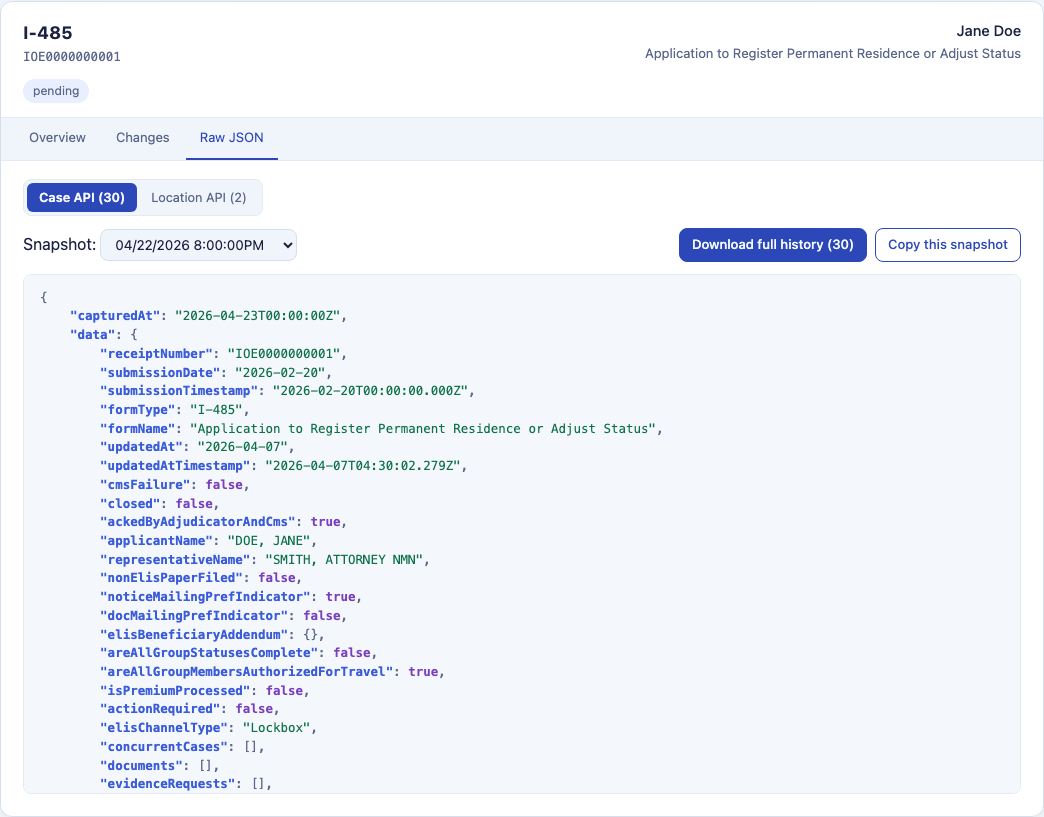
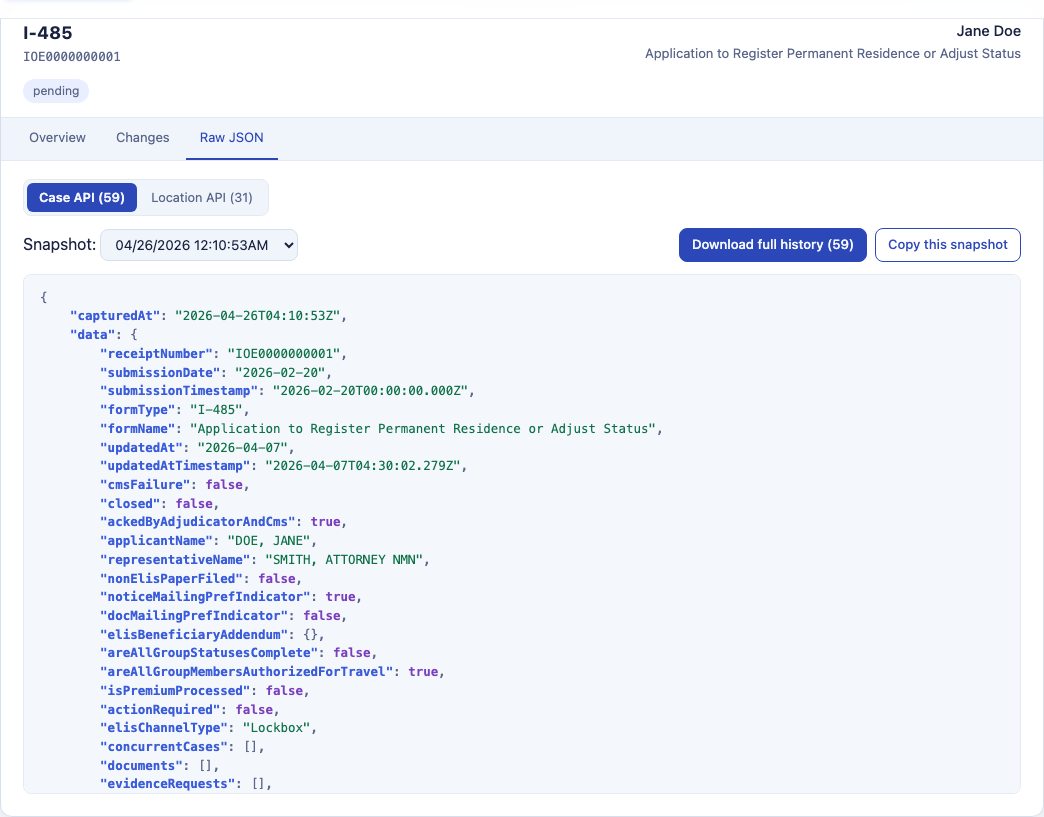
chore: drop dead code; refresh screenshots; document instance collision
Cleanup
- pyflakes + vulture sweep, no behaviour changes (516 tests still
  passing).
- server.py: drop unused imports `diff_utils.day_of` and
  `system_log.count as count_system_log`; drop unused locals
  `attempt_started_wall`, `tail_lines`, and `stdout` inside the
  pull-attempt loop.
- uscis_auth.py: drop unused `import os`.
- session_fetch.py: drop unused playwright re-exports
  `Error as PlaywrightError` and `TimeoutError as PlaywrightTimeout`
  (kept `sync_playwright`).
- access_gate.py: drop unused flask imports `abort`,
  `send_from_directory`, `url_for`.
- style.css: remove four `.syslog-head-row` rule blocks — the class
  isn't emitted anywhere (leftover from a prior layout).

Docs
- README: warning callout at the top of the Deployment section.
  Multiple instances against the same auth.uscis_email must not
  fire a scheduled pull at the same time — the OIDC + MFA flow
  races, the IMAP inbox is shared, and lockouts get tripped.
  Running several servers side-by-side (VM + local copies) is
  fine for testing as long as schedules don't overlap; either
  stop the others before the next fire, or stagger pull_minute
  values per instance. Manual /api/pull triggers can interleave
  freely — only schedulers must not collide.
- README screenshots regenerated against the current UI (topbar
  refactor + new System tab + collapse states). Same three crops
  and dimensions as before; PII masked at render time via DOM
[…]

diff --git a/src/static/style.css b/src/static/style.css
@@ -1290,8 +1290,6 @@ main[hidden] { display: none; }
 }
 .clear-log-btn:hover { background: var(--bad-tint); }
 
-.syslog-head-row { gap: 14px; }
-
 /* ---------- modal dialog (shared) ---------- */
 /* The overlay is position:fixed so opening it does NOT reflow the page
    underneath — event rows, header, and other controls stay exactly
@@ -1890,19 +1888,6 @@ pre.raw .json-null    { color: var(--muted); font-style: italic; }
 }
 
 @media (max-width: 640px) {
-  /* ---------- system log mobile reflow ----------
-   * At phone width the header row can't fit the pill + source + ts
-   * + event + summary + two trace buttons. Allow wrap, and stack
-   * the trace buttons on their own line right-aligned. */
-  .syslog-head-row {
-    flex-wrap: wrap;
-    padding: 10px 12px;
-  }
-  .syslog-head-row > .trace-open-group {
-    margin-left: 0;
-    width: 100%;
-    justify-content: flex-end;
-  }
   .syslog-summary {
     /* Let summary wrap (not ellipsis-truncate) on mobile since
      * there's plenty of vertical room. */
@@ -2013,8 +1998,6 @@ pre.raw .json-null    { color: var(--muted); font-style: italic; }
   .mfa-email-raw {
     height: 60vh;
   }
-
-  .syslog-head-row { gap: 6px; }
 
   /* The kv detail strip uses a 2-column grid (label | value) with
      auto+1fr — at narrow widths the value column wraps fine, but the

diff --git a/src/server.py b/src/server.py
@@ -42,7 +42,6 @@ from diff_utils import (
     EVENT_CODE_LABELS,
     bin_by_day,
     day_changes,
-    day_of,
     location_day_changes,
     summarize_case,
 )
@@ -51,7 +50,6 @@ from system_log import (
     JSONL_STDERR_ENV as _SYSLOG_JSONL_ENV,
     log as sys_log,
     read_all as read_system_log,
-    count as count_system_log,
     clear as clear_system_log,
     parse_jsonl_stderr_line as _parse_syslog_jsonl_line,
     push_capture as _syslog_push_capture,
@@ -986,7 +984,6 @@ def _run_pull_subprocess_inner(
     # blip or a mail error is not retry-worthy at this layer.
     while attempt_num < policy.total_attempts:
         attempt_num += 1
-        attempt_started_wall = time.time()
 
         if attempt_num > 1:
             # Announce that we're about to retry BEFORE sleeping so the
@@ -1053,9 +1050,7 @@ def _run_pull_subprocess_inner(
                 env=child_env,
             )
             attempt_exit = proc.returncode
-            stdout = proc.stdout or ""
             stderr = proc.stderr or ""
-            tail_lines = (stdout + "\n" + stderr).splitlines()[-80:]
 
             attempt_steps, attempt_plain_tail = _collect_subprocess_steps(
                 stderr

diff --git a/src/session_fetch.py b/src/session_fetch.py
@@ -43,11 +43,7 @@ import traceback
 from datetime import datetime, timezone
 from pathlib import Path
 
-from playwright.sync_api import (
-    Error as PlaywrightError,
-    TimeoutError as PlaywrightTimeout,
-    sync_playwright,
-)
+from playwright.sync_api import sync_playwright
 
 from uscis_api import (
     ApiError,

diff --git a/src/access_gate.py b/src/access_gate.py
@@ -30,13 +30,10 @@ from system_log import log as sys_log
 from flask import (
     Flask,
     Response,
-    abort,
     jsonify,
     redirect,
     request,
-    send_from_directory,
     session,
-    url_for,
 )
 
 logger = logging.getLogger(__name__)

diff --git a/src/uscis_auth.py b/src/uscis_auth.py
@@ -29,7 +29,6 @@ from __future__ import annotations
 
 import json
 import logging
-import os
 import re
 import time
 from dataclasses import dataclass, field

diff --git a/README.md b/README.md
@@ -410,6 +410,35 @@ system log + every preserved trace.
 
 Optional — skip if you're running only locally.
 
+> [!WARNING]
+> **Multiple instances against the same USCIS account must not
+> fire a scheduled pull at the same time.** Running several
+> servers side-by-side — a deployed VM, one or more local copies,
+> a one-off testing process — is fine for development, debugging,
+> or sanity-checking a config change, *as long as their scheduled
+> pulls don't overlap*. The hazard is two or more processes
+> hitting USCIS's OIDC + MFA flow within seconds of each other:
+> they'll race for the same MFA email in the IMAP inbox,
+> invalidate one another's session, and can trip rate limits or
+> lockouts on the underlying account.
+>
+> Two safe ways to coexist:
+>
+> - **Stop the others before the next scheduled fire.** If
+>   multiple instances share the same `pull_minute` cadence, shut
+>   all but one down (close the terminals running `python
+>   src/server.py`, or `sudo systemctl stop uscis-checker` on the
+>   VM) before that minute hits. Manual `/api/pull` triggers are
+>   fine to interleave — just don't let the schedulers fire
+>   concurrently.
+> - **Stagger the schedules.** Set different `pull_minute` values
+>   in each `config.json` (e.g. VM at `[0]`, local-A at `[20]`,
+>   local-B at `[40]`) so their auto-pulls never collide.
+>
+> The same applies to back-to-back browser logins via `python
+> src/session_fetch.py login`, or any setup where multiple
+> processes share the same `auth.uscis_email`.
+
 ### 1. Create the VM
 
 ```bash
